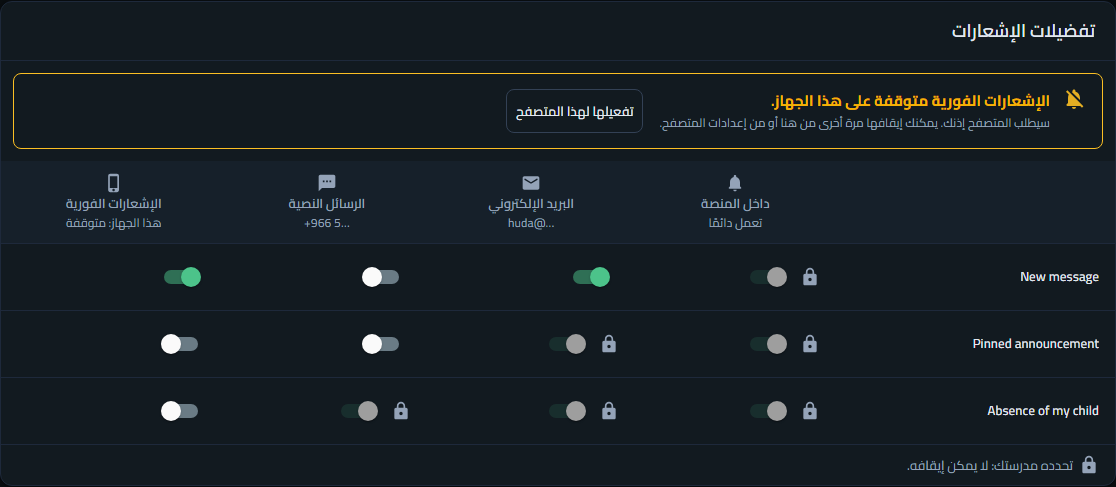
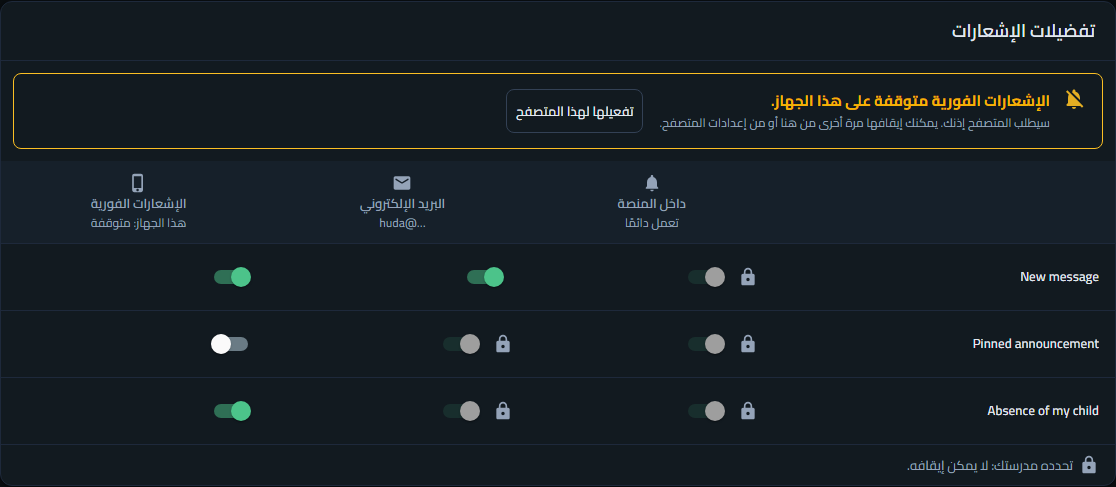
fix(ui): no SMS in the M6 preference parts (D76), with a client-wide guard
QA2 found the SMS channel still modelled from this PR up: the
NotificationChannel.Sms value, its ChannelPreferences column and icon, the
gallery samples, the Prefs_Channel_Sms and Prefs_NoPhone keys, and the
no-mobile-number test. All removed here, where they started; the D76
contract wave removes Channel_Sms too, so this is the same deletion.

NoSmsInClientTests guards it: no client type or member, no resource key
(ar, en) and no identifier in client .cs/.razor/.js mentions Sms; the
vendored editor under wwwroot/lib is excluded. Checked that it fails with
the old enum back. Gallery shots and DESIGN.md 7b updated.

diff --git a/tests/Lms.Client.Tests/Layout/NoSmsInClientTests.cs b/tests/Lms.Client.Tests/Layout/NoSmsInClientTests.cs
@@ -1,0 +1,62 @@
+using System.Reflection;
+using System.Text.RegularExpressions;
+using Lms.Client.Services;
+
+namespace Lms.Client.Tests.Layout;
+
+/// <summary>
+/// D76: no SMS in v1. No type, member, resource key or source identifier of the client may model an SMS channel, so it cannot come back by
+/// accident. The vendored editor (wwwroot/lib) is not ours and is not scanned.
+/// </summary>
+public sealed partial class NoSmsInClientTests
+{
+    private static string ClientDir()
+    {
+        var dir = AppContext.BaseDirectory;
+        while (dir is not null && !Directory.Exists(Path.Combine(dir, "src", "Lms.Client"))) dir = Path.GetDirectoryName(dir);
+        return Path.Combine(dir!, "src", "Lms.Client");
+    }
+
+    private static bool MentionsSms(string name) => name.Contains("Sms", StringComparison.OrdinalIgnoreCase);
+
+    [Fact]
+    public void No_client_type_or_member_mentions_sms()
+    {
+        const BindingFlags all = BindingFlags.Public | BindingFlags.NonPublic | BindingFlags.Instance | BindingFlags.Static | BindingFlags.DeclaredOnly;
+        var found = typeof(CultureService).Assembly.GetTypes()
+            .SelectMany(t => new[] { t.FullName ?? t.Name }.Concat(t.GetMembers(all).Select(m => $"{t.Name}.{m.Name}")))
+            .Where(MentionsSms)
+            .ToList();
+
+        Assert.Empty(found);
+    }
+
+    [GeneratedRegex("<data name=\"([^\"]+)\"")]
+    private static partial Regex KeyPattern();
+
+    [Theory]
+    [InlineData("ar")]
+    [InlineData("en")]
+    public void No_resource_key_mentions_sms(string culture)
+    {
+        var resx = File.ReadAllText(Path.Combine(ClientDir(), "Resources", $"SharedResource.{culture}.resx"));
+
+        Assert.DoesNotContain(KeyPattern().Matches(resx).Select(m => m.Groups[1].Value), MentionsSms);
+    }
+
+    [GeneratedRegex(@"\b\w*Sms\w*\b")]
+    private static partial Regex SmsIdentifier();
+
+    [Fact]
+    public void No_client_source_uses_an_sms_identifier()
+    {
+        var lib = Path.Combine(ClientDir(), "wwwroot", "lib") + Path.DirectorySeparatorChar;
+        var found = Directory.EnumerateFiles(ClientDir(), "*.*", SearchOption.AllDirectories)
+            .Where(f => f.EndsWith(".cs", StringComparison.Ordinal) || f.EndsWith(".razor", StringComparison.Ordinal) || f.EndsWith(".js", StringComparison.Ordinal))
+            .Where(f => !f.StartsWith(lib, StringComparison.OrdinalIgnoreCase) && !f.Contains($"{Path.DirectorySeparatorChar}obj{Path.DirectorySeparatorChar}") && !f.Contains($"{Path.DirectorySeparatorChar}bin{Path.DirectorySeparatorChar}"))
+            .SelectMany(f => SmsIdentifier().Matches(File.ReadAllText(f)).Select(m => $"{Path.GetFileName(f)}: {m.Value}"))
+            .ToList();
+
+        Assert.Empty(found);
+    }
+}

diff --git a/tests/Lms.Client.Tests/Components/Messaging/MessagingComponents3Tests.cs b/tests/Lms.Client.Tests/Components/Messaging/MessagingComponents3Tests.cs
@@ -12,12 +12,11 @@ public sealed class MessagingComponents3Tests : ClientTestContext
 {
     private static void English() => FakeCultureService.Apply(new CultureInfo("en"));
 
-    private static IReadOnlyList<ChannelColumn> Columns(bool hasPhone = true) =>
+    private static IReadOnlyList<ChannelColumn> Columns(bool push = true) =>
     [
         new(NotificationChannel.InApp, "Always on"),
         new(NotificationChannel.Email, "huda@…"),
-        new(NotificationChannel.Sms, "+966 5…", hasPhone, hasPhone ? null : "Add a mobile number in your profile", hasPhone ? null : "me/profile"),
-        new(NotificationChannel.Push, "This device: off"),
+        new(NotificationChannel.Push, "This device: off", push, push ? null : "Not available on this browser"),
     ];
 
     [Fact]
@@ -55,14 +54,22 @@ public sealed class MessagingComponents3Tests : ClientTestContext
     }
 
     [Fact]
-    public void Without_a_mobile_number_sms_is_disabled_and_says_why()
+    public void Without_push_in_this_browser_the_push_column_is_disabled_and_says_why()
     {
         English();
-        var cut = Render<ChannelPreferences>(p => p.Add(c => c.Columns, Columns(hasPhone: false)).Add(c => c.Rows, new[] { new PreferenceRow { Key = "msg", Label = "New message" } }));
+        var cut = Render<ChannelPreferences>(p => p.Add(c => c.Columns, Columns(push: false)).Add(c => c.Rows, new[] { new PreferenceRow { Key = "msg", Label = "New message" } }));
 
-        Assert.True(cut.Find("[data-testid=prefs-msg-Sms] input").HasAttribute("disabled"));
-        Assert.Contains("Add a mobile number", cut.Find("[data-testid=prefs-col-Sms]").TextContent);
-        Assert.Equal("me/profile", cut.Find("[data-testid=prefs-col-Sms] a").GetAttribute("href"));
+        Assert.True(cut.Find("[data-testid=prefs-msg-Push] input").HasAttribute("disabled"));
+        Assert.Contains("Not available on this browser", cut.Find("[data-testid=prefs-col-Push]").TextContent);
+    }
+
+    [Fact]
+    public void There_is_no_sms_channel_in_v1()
+    {
+        English();
+        Assert.DoesNotContain("Sms", Enum.GetNames<NotificationChannel>());
+        var cut = Render<ChannelPreferences>(p => p.Add(c => c.Columns, Columns()).Add(c => c.Rows, new[] { new PreferenceRow { Key = "msg", Label = "New message" } }));
+        Assert.DoesNotContain("SMS", cut.Markup);
     }
 
     [Fact]

diff --git a/src/Lms.Client/Components/Messaging/PreferenceModels.cs b/src/Lms.Client/Components/Messaging/PreferenceModels.cs
@@ -1,16 +1,15 @@
 namespace Lms.Client.Components.Messaging;
 
-/// <summary>The four delivery channels of the preferences page (spec #615 §6), in column order.</summary>
+/// <summary>The delivery channels of the preferences page (spec #615 §6), in column order. No SMS in v1 (D76).</summary>
 public enum NotificationChannel
 {
     InApp,
     Email,
-    Sms,
     Push,
 }
 
 /// <summary>A channel column: its caption is the address in use (masked) or the push state of this device; an unavailable channel disables its
-/// switches and says why (no mobile number, or a browser without push).</summary>
+/// switches and says why (a browser without push).</summary>
 public sealed record ChannelColumn(NotificationChannel Channel, string Caption, bool Available = true, string? UnavailableText = null, string? UnavailableHref = null);
 
 /// <summary>One event row: its label and, per channel, whether it is on and whether the school locked it (a mandatory event).</summary>

diff --git a/docs/DESIGN.md b/docs/DESIGN.md
@@ -237,7 +237,7 @@ The M6 spec (PR 615) draws the pages; these presentational components and the `l
 - **Notification centre:** `NotificationPanel` (the bell's card: h2, Mark all as read, a settings link, See all) and `NotificationItem` (one link whose accessible name starts "Unread:"; the actor in a bdi; a quote and the time). `ListGroupLabel` gives "Earlier" and the picker groups.
 - **Recipients and safeguarding (D69):** `RecipientOption` (a person with initials and a caption, or a group with its size; a near-miss is disabled with its reason in its name and never shows a size) and `SafeguardingOption`, the one disabled "No students here" row managers and org admins see instead of students. `ThreadHeader` shows a person's role and context, or "Group · n people" that opens Members, so everyone can see who can read the conversation. `MessagingRuleCell` draws a rules-matrix cell; a D69 cell is a locked chip with the safeguarding reason, never a select.
 - **Announcement composer:** `AnnouncementComposerForm` edits an `AnnouncementDraft` (a UI model the page maps to the contract): both titles required with the reason at the field, the bodies, the allowed scope kinds, the page's target picker, Include the units below, `RoleFilterChips` (aria-pressed with a check), `ReachEstimate` (role="status", rounded above 100), Now or Schedule with the time-zone caption, `ToggleRow` for Pin and Notify, attachments, the expiry, then Cancel, Save as draft and Publish or Schedule. A draft needs only both titles.
-- **Preferences and moderation:** `ChannelPreferences` (events by In-app, Email, SMS and Push; In-app and school-mandatory cells are locked switches with the Lock icon before them, explained once; an unavailable channel is disabled with its reason and a fix link; below 600 px a channel summary keeps the addresses and reasons, and each event becomes labelled rows) and `PushPermissionAlert` (Off offers Turn on; Denied explains the browser setting with no button). `ModerationDecision` is a fieldset radio group mapped to #613 `ModerationActions`, each with what happens, the three that act on the sender or conversation last in the error colour, and a 1/7/30-day duration for restrict. `ReportStatusChip` (a safety concern is error) and `ReportedMessage` (the outlined bubble with a Reported message chip).
+- **Preferences and moderation:** `ChannelPreferences` (events by In-app, Email and Push; no SMS in v1, D76; In-app and school-mandatory cells are locked switches with the Lock icon before them, explained once; an unavailable channel (push in this browser) is disabled with its reason; below 600 px a channel summary keeps the addresses and reasons, and each event becomes labelled rows) and `PushPermissionAlert` (Off offers Turn on; Denied explains the browser setting with no button). `ModerationDecision` is a fieldset radio group mapped to #613 `ModerationActions`, each with what happens, the three that act on the sender or conversation last in the error colour, and a 1/7/30-day duration for restrict. `ReportStatusChip` (a safety concern is error) and `ReportedMessage` (the outlined bubble with a Reported message chip).
 - **Gallery:** `/dev/messaging-gallery` on the standalone dev server only (it's the not-found page against a real API). Screenshots: `docs/screenshots/ux-m6-components/`.
 
 ## 8. Phase 2 status (page-by-page passes)
